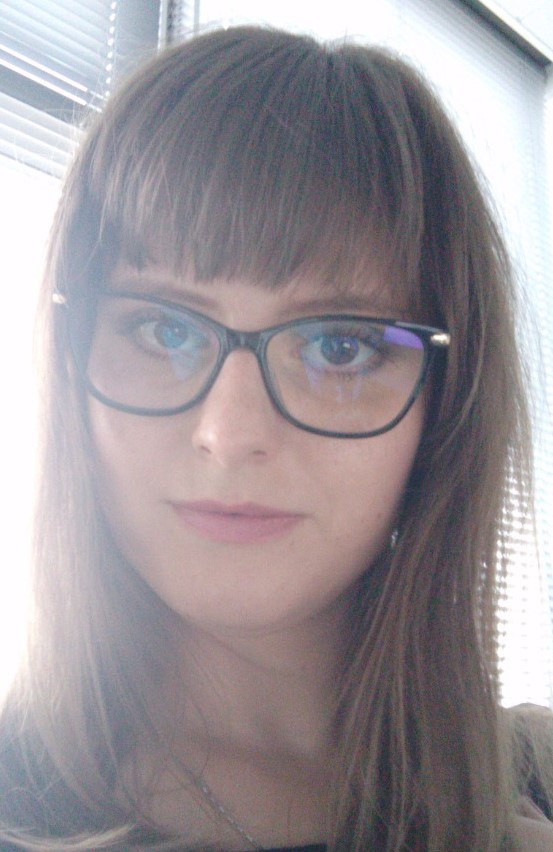
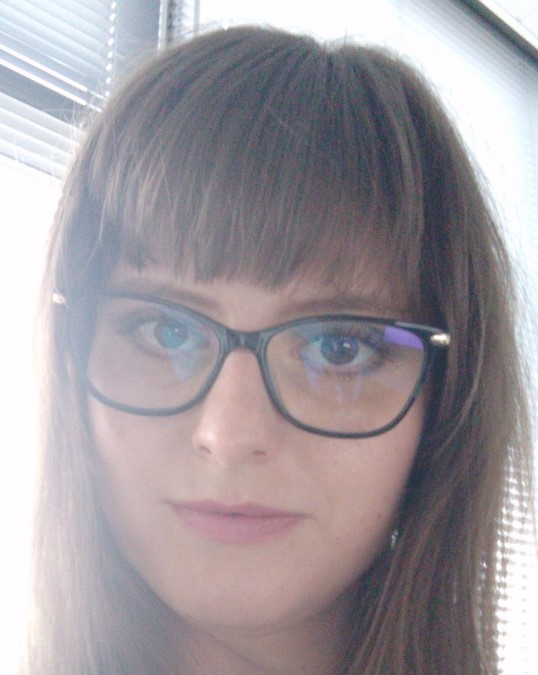
první kroky

diff --git a/index.html b/index.html
@@ -4,9 +4,37 @@
     <meta charset="UTF-8">
     <meta http-equiv="X-UA-Compatible" content="IE=edge">
     <meta name="viewport" content="width=device-width, initial-scale=1.0">
-    <title>Document</title>
+    <title>Životopis</title>
+    <link href="https://cdn.jsdelivr.net/npm/bootstrap@5.0.0-beta2/dist/css/bootstrap.min.css" rel="stylesheet" integrity="sha384-BmbxuPwQa2lc/FVzBcNJ7UAyJxM6wuqIj61tLrc4wSX0szH/Ev+nYRRuWlolflfl" crossorigin="anonymous">
+    <link rel="stylesheet" href="style.css" />
 </head>
+
 <body>
-    <h1>Ahoj</h1>
+    <!--Hlavička stránky-->
+
+    <header class="hlavicka">
+        <div class="container">
+            <div class="row">
+                <div class="col-md-6">
+                    <img class="mojefoto" src="foto.jpeg" alt="moje foto">
+                </div>
+                <div class="col-md-6">
+                    <h1>Martina MLADĚJOVSKÁ</h1>
+                    <img class="rounded-circle" src="LinkedIn.jfif" alt="logo LinkedIn">
+                    <a href="https://www.linkedin.com/in/martina-mladejovska-41746610b" target="_blank">LinkedIn</a>
+                    <img class="rounded-circle" src="Email.jfif" alt="obrazek mailu">
+                    <a href="mailto:m.mladejovska@seznam.cz">m.mladejovska@seznam.cz</a>
+                </div>
+            </div>
+
+        </div>
+    </header>
+
+    <!--Menu stránky-->
+    <!--O mně-->
+    <!--Práce-->
+    <!--Volný čas-->
+    <!--Patička stránky-->
+    
 </body>
 </html>

diff --git a/style.css b/style.css
@@ -1,0 +1,13 @@
+.hlavicka {
+    background-color: rgba(195,219,197,0.8);
+}
+
+.mojefoto {
+    width: 350px;
+    border-radius: 50px;
+    margin: 20px 30px;
+    border-color: #A0AAB2;
+    border-style: solid;
+    border-width: 2px;
+}
+
